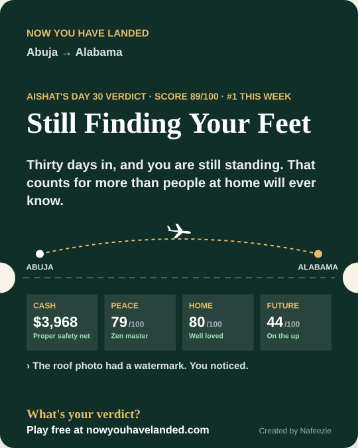
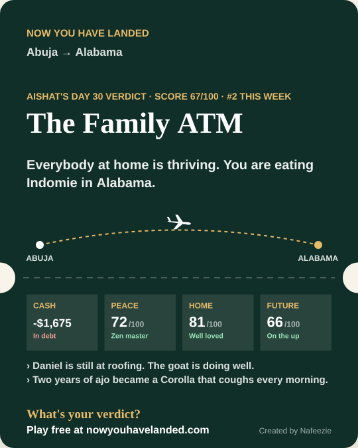
Arrival scenes become Arrival day, and the host and guest match the player's gender
Claude-Session: https://claude.ai/code/session_01RtxNzUyAGZCdrsYtNVf3P3

diff --git a/index.html b/index.html
@@ -1355,7 +1355,7 @@ const padaScene = () => { const c = C(), when = s => s.landing===1 && (s.peace <
 
 /* ---------- Stranded at arrivals ---------- */
 const arrival = () => { const port = {us: L.name==='Maryland' ? 'BWI' : 'the airport', uk:'Heathrow', ca: T()==='Toronto' ? 'Pearson' : 'the airport'}[R.key];
-  return {day:1, when: s => s.landing===1 && pickV('air',3)===1, text:`You land at ${port}. The man who arranged your trip said someone would pick you up. He is not picking up his calls. The people you know are hours away, and the only person in ${T()} is at work until 6pm.`,
+  return {day:0, label:'Arrival day', when: s => s.landing===1 && pickV('air',3)===1, text:`You land at ${port}. The man who arranged your trip said someone would pick you up. He is not picking up his calls. The people you know are hours away, and the only person in ${T()} is at work until 6pm.`,
   choices:[
    {l:"Wait for your friend", fx:{peace:-6, home:2}, r:"Three hours on an airport bench with two suitcases and a dying phone. When she arrives, you hug her like family."},
    {l:`Take a taxi, ${M(A(85))}`, fx:{cash:-A(85), peace:3}, r:"The driver plays Afrobeats when he hears your accent. It is the best money you will spend this month."},
@@ -1363,23 +1363,25 @@ const arrival = () => { const port = {us: L.name==='Maryland' ? 'BWI' : 'the air
 
 /* ---------- Real stories: the host who vanished, and the guest who stayed ---------- */
 const TOLD = 'Nafeezie';
-const barNight = () => ({day:1, credit:TOLD, told:1, when: s => s.landing===1 && pickV('air',3)===2,
-  text:`For weeks, a family friend in ${T()} planned your arrival with you on WhatsApp. He picks you up himself, and you see that his home is one small room shared with his children. "No wahala, we will manage," he says. That evening he takes you to a bar for welcome drinks, steps out to make a call, and never comes back. E be like film trick.`,
+// the host and the guest match the player: a woman player gets a woman host and a female cousin
+const PRO = () => S.gender==='woman' ? {he:'she', He:'She', his:'her', him:'her'} : {he:'he', He:'He', his:'his', him:'him'};
+const barNight = () => { const p = PRO(); return {day:0, label:'Arrival day', credit:TOLD, told:1, when: s => s.landing===1 && pickV('air',3)===2,
+  text:`For weeks, a family friend in ${T()} planned your arrival with you on WhatsApp. ${p.He} picks you up, and you see that ${p.his} home is one small room shared with ${p.his} children. "No wahala, we will manage," ${p.he} says. That evening ${p.he} takes you out for welcome drinks, steps out to make a call, and never comes back. E be like film trick.`,
   choices:[
-   {l:"Wait. He must be coming back", fx:{peace:-12}, r:"Everywhere first blur. You sleep on a bench in the bar with your suitcase between your knees. In the morning, reality wakes you up, and you start figuring things out from zero."},
+   {l:`Wait. ${p.He} must be coming back`, fx:{peace:-12}, r:"Everywhere first blur. You sleep on a bench in the bar with your suitcase between your knees. In the morning, reality wakes you up, and you start figuring things out from zero."},
    {l:"Call everyone you know", fx:{cash:-A(60), peace:-5, home:2}, r:"At 1am, a friend of a friend picks up and sends you an address. You arrive by taxi with your suitcase and a very long story."},
-   {l:"Book the cheapest room nearby", fx:{cash:-A(90), peace:-2, future:2}, r:"A tired receptionist gives you a room above a takeaway. You lie awake and finally understand what \"we will manage\" meant."}]});
-const guestStay = () => { const c = C(), host = s => pickV('HOST',2)===0; return [
- {day:30, label:'Two months later', ask:1, credit:TOLD, told:1, when: host, from:c.friend, sub:"Secondary school friend", text:`You have finally found your feet in ${T()}. Then a message comes in. "${c.please}, my cousin just landed and he has nowhere to stay. Can he stay with you for one month? Just one month, while he finds his feet."`,
+   {l:"Book the cheapest room nearby", fx:{cash:-A(90), peace:-2, future:2}, r:"A tired receptionist gives you a room above a takeaway. You lie awake and finally understand what \"we will manage\" meant."}]}; };
+const guestStay = () => { const c = C(), p = PRO(), host = s => pickV('HOST',2)===0; return [
+ {day:30, label:'Two months later', ask:1, credit:TOLD, told:1, when: host, from:c.friend, sub:"Secondary school friend", text:`You have finally found your feet in ${T()}. Then a message comes in. "${c.please}, my cousin just landed and ${p.he} has nowhere to stay. Can ${p.he} stay with you for one month? Just one month, while ${p.he} finds ${p.his} feet."`,
   choices:[
-   {l:"Say yes. One month only", fx:{cash:-A(100), home:4, peace:-4}, set:{guest:'yes'}, r:"He arrives with two Ghana Must Go bags and a big smile. He eats well, sleeps well, and thanks you every single day."},
-   {l:"Say yes, with an end date", fx:{home:2, peace:-1, future:2}, set:{guest:'dated'}, r:"He signs your note like a contract. It feels awkward, and it also feels safe."},
+   {l:"Say yes. One month only", fx:{cash:-A(100), home:4, peace:-4}, set:{guest:'yes'}, r:`${p.He} arrives with two Ghana Must Go bags and a big smile. ${p.He} eats well, sleeps well, and thanks you every single day.`},
+   {l:"Say yes, with an end date", fx:{home:2, peace:-1, future:2}, set:{guest:'dated'}, r:`${p.He} signs your note like a contract. It feels awkward, and it also feels safe.`},
    {l:"Say no. No space", fx:{home:-5, peace:3}, r:"Your friend says he understands. Then he tells two people that abroad has changed you."}]},
- {day:30, label:'Three months later', credit:TOLD, told:1, when: s => host(s) && s.f.guest==='yes', text:"It has been a month. Your guest has his own side of the wardrobe now, your food budget has doubled, and he has not mentioned moving out once.",
+ {day:30, label:'Three months later', credit:TOLD, told:1, when: s => host(s) && s.f.guest==='yes', text:`It has been a month. Your guest has ${p.his} own side of the wardrobe now, your food budget has doubled, and ${p.he} has not mentioned moving out once.`,
   choices:[
-   {l:"Give him two weeks' notice", fx:{peace:4, home:-3}, set:{guest:'notice'}, r:"He looks hurt for one evening. By the end of the week, he has viewed three rooms."},
+   {l:`Give ${p.him} two weeks' notice`, fx:{peace:4, home:-3}, set:{guest:'notice'}, r:`${p.He} looks hurt for one evening. By the end of the week, ${p.he} has viewed three rooms.`},
    {l:"Let it slide. Maybe next month", fx:{cash:-A(150), peace:-8}, set:{guest:'stayed'}, r:"Next month becomes the month after. The host who told us this story had a one-month guest who stayed for eight."},
-   {l:"Pay his deposit elsewhere", fx:{cash:-A(300), peace:6, home:3}, set:{guest:'moved'}, r:"You find him a room and pay the deposit to buy your space back. Expensive, but you can finally walk around in your own house."}]}
+   {l:`Pay ${p.his} deposit elsewhere`, fx:{cash:-A(300), peace:6, home:3}, set:{guest:'moved'}, r:`You find ${p.him} a room and pay the deposit to buy your space back. Expensive, but you can finally walk around in your own house.`}]}
 ]; };
 
 function scenes(){
@@ -1494,7 +1496,7 @@ function header(day){
   shown = {cash:S.cash, peace:S.peace, home:S.home, future:S.future};
   const b = v => `<div class="bar"><i style="width:${v}%"></i></div>`;
   return `<div class="pass">
-    <div class="pass-top"><div class="brand">${getName() ? getName().toUpperCase()+' HAS LANDED' : 'LANDED'}</div><div class="day">DAY ${String(day).padStart(2,'0')} / 30</div></div>
+    <div class="pass-top"><div class="brand">${getName() ? getName().toUpperCase()+' HAS LANDED' : 'LANDED'}</div><div class="day">${day===0 ? 'ARRIVAL DAY' : `DAY ${String(day).padStart(2,'0')} / 30`}</div></div>
     <div class="route">${S.trail.map(t=>t.code).join(' → ')} → ${R.country} · ${L.town===L.name?L.name:L.town+', '+L.name}</div>
     <div class="stats">
       <div class="stat${c.cash}"><span>Cash</span><b>${money(S.cash)}</b></div>
@@ -1686,7 +1688,7 @@ function render(){
   if(phase==='scene'){
     const list = typeof sc.choices==='function' ? sc.choices(S) : sc.choices;
     const ord = list.map((c,i)=>i).sort((a,b)=> hashStr((S.seed||0)+'|'+sc.day+'|'+list[a].l) - hashStr((S.seed||0)+'|'+sc.day+'|'+list[b].l));
-    const note = sc.day===1 && !sc.from && idx===nextIndex(0) ? `${S.landing>1?`<div class="local"><b>Landing number ${S.landing}</b>You leave ${S.trail[S.trail.length-1].town} and start again. Your peace, family standing, and future come with you. Your savings reset to what you managed to bring.</div>`:''}<div class="local"><b>About ${L.name}</b>${localNote()}</div>` : '';
+    const note = sc.day<=1 && !sc.from && idx===nextIndex(0) ? `${S.landing>1?`<div class="local"><b>Landing number ${S.landing}</b>You leave ${S.trail[S.trail.length-1].town} and start again. Your peace, family standing, and future come with you. Your savings reset to what you managed to bring.</div>`:''}<div class="local"><b>About ${L.name}</b>${localNote()}</div>` : '';
     app.innerHTML = header(sc.day) + `<div class="scene fade">${art(sc)}${intro(sc)}${note}<div class="choices">${ord.map((i,pos)=>{ const c=list[i]; return `<button class="choice" data-i="${i}"><span class="k">${'ABCD'[pos]}</span><span class="cl">${c.l}</span><span class="arrow" aria-hidden="true">↗</span></button>`; }).join('')}</div>${history.length?`<button class="backbtn" id="back">← Back to the last choice</button>`:''}${glossLink()}</div>`;
     wireBack();
     if(sc.from && !(S.landing===1 && sc.day===1)) setTimeout(()=> isCall(sc) ? SFX.ring() : SFX.ping(), 150);
@@ -1716,7 +1718,7 @@ function render(){
 function artKind(sc){
   if(sc.auto==='roof') return S.f.sibling==='sent' && ((S.v&&S.v.B)||0)===0 ? 'goat' : 'phone';
   if(sc.auto) return 'coins';
-  if(sc.day===1) return 'plane';
+  if(sc.day<=1) return 'plane';
   if(sc.day===17) return 'star';
   if(sc.from){
     const f = sc.from, c = C();
